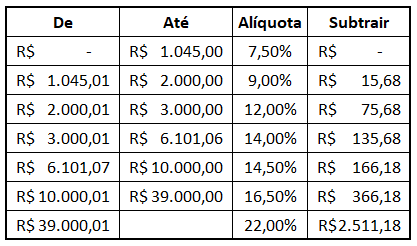
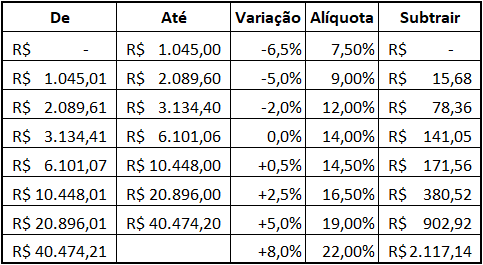
Atualiza faixas do PSS pela portaria 2.963/2020

diff --git a/js/compressed.js b/js/compressed.js
@@ -1,1 +1,1 @@
-var liq1=0,liq2=0;function updateQuali(e,a){var d=Array("Mínima do Cargo","Fundamental Completo","Médio Completo","Médio Técnico","Graduação Completa","Especialização","Mestrado","Doutorado"),l=Array(0,1,2,3,4,5,6,7),u=Array(),r=Array(),t=e.ddQuali.value,n=parseFloat(a);for(n<=11?(u=d,r=l):17==n?(u=d.slice(2,d.length),r=l.slice(2,d.length),u.splice(0,1,"Exigência Mínima"),r.splice(0,1,0)):31==n&&(u=d.slice(4,d.length),r=l.slice(4,d.length),u.splice(0,1,"Exigência Mínima"),r.splice(0,1,0));e.ddQuali.options.length;)e.ddQuali.options[0]=null;for(i=0;i<u.length;i++)option=new Option(u[i],r[i]),e.ddQuali.options[e.ddQuali.length]=option;r.includes(parseInt(t))&&(e.ddQuali.value=t),calcSalario(e)}function calcfatorpg(e,a){Array();return(a?Array(0,.1,.15,.2,.25,.3,.52,.75):Array(0,0,0,.1,.15,.2,.35,.5))[e]}function firstload(){updateQuali(myform,1),updateQuali(myform2,1)}function validateGD1(e,a){var d=e||window.event,l=d.keyCode||d.which;l=String.fromCharCode(l);/[0-9]|\./.test(l)||(d.returnValue=!1,d.preventDefault&&d.preventDefault())}function validateGD2(e){var a=e.gastoTrans.value;a=99<a?a.toString().substring(0,a.length-1):parseInt(a,10),e.gastoTrans.value=a,calcSalario(e)}function formatValor(e){var a=/^\d+$/;return 0===e?"R$ 0,00":a.test(e)?"R$ "+e+",00":a.test(10*e)?"R$ "+e.toString().replace(".",",")+"0":"R$ "+e.toString().replace(".",",")}function valorIRRF(e,a){var d=0;return d=1==a?e<1710.79?0:e<2563.92?.075*e-128.31:e<3418.6?.15*e-320.6:e<4271.59?.225*e-577:.275*e-790.58:a<=4?e<=1787.77?0:e<=2679.29?.075*e-134:e<=3572.43?.15*e-335:e<=4463.81?.225*e-602.96:.275*e-826.15:e<=1903.98?0:e<=2826.65?.075*e-142.8:e<=3751.05?.15*e-354.8:e<=4664.68?.225*e-636.13:.275*e-869.36,Math.floor(100*d)/100}function calcPSS(e,a,d){var l=0;return l=e<12?.11*a:a<=1045?.075*a:a<=2e3?.09*a-15.68:a<=3e3?.12*a-75.68:a<=d?.14*a-135.68:a<=1e4?.145*a-166.18:a<=39e3?.165*a-366.18:.22*a-2511.18,Math.floor(100*l)/100}function dependentesIR(e,a){var d=0;return d=1==a?171.97*e:a<=4?179.71*e:189.59*e,Math.floor(100*d)/100}function valorSaude(e,a,d){var l=Array();l[0]=Array(121.94,127.69,129.42,134.6,138.62,143.22,154.98,157.44,159.9,167.7),l[1]=Array(116.19,121.94,123.67,127.69,131.72,136.32,147.42,149.76,152.1,159.9),l[2]=Array(110.44,116.19,117.92,121.94,125.97,130.57,139.86,142.08,144.3,152.1),l[3]=Array(105.84,110.44,112.16,116.19,120.22,124.82,133.56,135.68,137.8,144.3),l[4]=Array(100.08,105.84,107.56,110.44,114.46,119.07,127.26,129.28,131.3,137.8),l[5]=Array(90.88,93.18,94.91,95.48,99.51,104.11,105.84,107.52,109.2,111.8),l[6]=Array(87.43,88.58,90.31,90.88,94.91,99.51,100.8,102.4,104,106.6),l[7]=Array(82.83,83.98,85.7,86.28,90.31,94.91,95.76,97.28,98.8,101.4);var u=0;u=e<1500?0:e<2e3?1:e<2500?2:e<3e3?3:e<4e3?4:e<5500?5:e<7500?6:7;var r=1;return 6<=d&&(r=1.22618),1e3==a?0:Math.round(l[u][a]*r*100)/100}function valorCreche(e,a,d){var l=95;6<=a&&(l=321);return l*(1-(e<6200.8?.05:e<12401.6?.1:e<18602.4?.15:e<24803.2?.2:.25))*d}function valorTransporte(e,a){var d;return gastodiario=isNaN(a)||a<0?0:.2*Math.ceil((a-1)/.2)+1,(d=22*gastodiario-.06*e*(22/30))<0?0:d}function valorFG(e,a){var d=Array(0,777.26,522.9,423.94,215.78,175.09,128.4,81.89,60.57,49.15),l=Array(0,790.75,531.99,431.3,219.54,187.14,130.63,83.31,61.61,50),u=Array(0,804.49,541.23,438.79,223.35,181.23,132.89,84.75,62.69,50.86),r=Array(0,848.74,571,462.92,235.63,191.2,140.2,89.41,66.14,53.66),t=Array(0,891.17,599.55,486.07,247.42,200.76,147.21,93.88,69.44,56.34),n=Array(0,933.5,628.03,509.16,259.17,210.29,154.2,98.34,72.74,59.02),o=Array(0,975.51,656.29,532.07,270.83,219.76,161.14,101.77,76.02,61.67),v=0;return 1==a?v=d[e]:a<=2?v=l[e]:a<=6?v=u[e]:7==a?v=r[e]:8==a?v=t[e]:9==a?v=n[e]:10<=a&&(v=o[e]),v}function valorCD(e,a){var d=Array(0,9575.95,8004.9,9284.22,4563.53),l=Array(0,10315.37,8623.02,6769.47,4915.92),u=Array(0,11111.9,9288.86,7292.19,5295.51),r=Array(0,11723.05,9799.75,7693.26,5586.77),t=Array(0,12309.21,10289.74,8077.92,5866.1),n=Array(0,12893.89,10778.5,8461.62,6144.74),o=Array(0,13474.12,11263.53,8842.29,6421.26);return 1==a?d[e]:a<=3?l[e]:a<=6?u[e]:7==a?r[e]:8==a?t[e]:9==a?n[e]:o[e]}function nocd(e){0!=e.ddFG.value&&(e.ddCD.value=0)}function nofg(e){0!=e.ddCD.value&&(e.ddFG.value=0)}function calcSalario(e){var a=parseInt(e.ddAno.value,10);base=1==a?(ftstep=1.036,1086.32):2==a?(ftstep=1.037,1086.32):3==a?(ftstep=1.037,1140.64):4==a?(ftstep=1.038,1140.64):5==a||6==a?(ftstep=1.038,1197.67):7==a?(ftstep=1.038,1263.54):(ftstep=1.039,1326.72),e.medico.checked&&(base*=2);var d=parseFloat(e.ddClasse.value)+parseFloat(e.ddNivel.value)+parseFloat(e.ddProg.value)-3,l=e.ddCargaH.value,u=Math.floor(base*Math.pow(ftstep,d)*l*100)/100,r=e.numAnuenio.value/100*u,t=0;t=a<6?e.alim.checked?373:0:e.alim.checked?458:0,.5==l&&(t/=2);var n=e.trans.checked?valorTransporte(u,e.gastoTrans.value):0,o=e.ddInsa.value,v=calcfatorpg(e.ddQuali.value,e.areaquali[0].checked),c=0;1==e.ddURP.value?c=.2605*(Math.floor(1197.67*Math.pow(1.038,d)*l*100)/100)*(1+v):2==e.ddURP.value&&(c=.2605*u*(1+v));var i=v*u,s=u+c+i+Math.floor(o*u*100)/100+r;if("max"==e.ddSindTipo.value)var p=e.sindicato.checked?.01*s:0;else p=Math.floor(.01*base*Math.pow(ftstep,parseFloat(e.ddClasse.value)-1)*l*100)/100;var m=s/(240*l)*(e.noturno.value*(60/52.5))*.25,h=valorFG(parseInt(e.ddFG.value,10),a);if(e.rdCD[0].checked&&"0"!=e.ddCD.value)var f=.6*valorCD(e.ddCD.value,a);else if(e.rdCD[1].checked&&"0"!=e.ddCD.value)f=valorCD(e.ddCD.value,a)-u;else f=0;var k=s+h+f,I=e.saude.checked?valorSaude(k,parseInt(e.ddIdade.value,10),a)+valorSaude(k,parseInt(e.ddIdadeDep1.value,10),a)+valorSaude(k,parseInt(e.ddIdadeDep2.value,10),a)+valorSaude(k,parseInt(e.ddIdadeDep3.value,10),a):0,D=valorCreche(u+c+Math.floor(o*u*100)/100+r,a,e.numCreche.value);if(e.ferias.checked)var C=valorIRRF(A=(s+h+f)/3,a);else{var A=0;C=0}var g=e.decter.checked?(s+h+f)/2:0,y=s+I+t+n+D+h+f+m+A+g,F=s,M=4663.75;M=6<=a&&a<8?5189.82:a<9?5531.31:9==a?5645.81:10==a?5839.45:6101.06,e.pssfgcd.checked&&(F+=h+f),"rpc"==e.novopss.value&&M<F&&(F=M);var R=calcPSS(a,F,M),V=0;"sim"==e.funp_ad.value&&(F==M?(V=(u+c+i-M)*e.ddFunp.value,"myform"==e.name?(document.getElementById("funp_plano_norm1").checked=!0,document.getElementById("ddFunp1").disabled=!1,document.getElementById("numFunpAlt1").disabled=!0):(document.getElementById("funp_plano_norm2").checked=!0,document.getElementById("ddFunp2").disabled=!1,document.getElementById("numFunpAlt2").disabled=!0)):(V=e.numFunpAlt.value,"myform"==e.name?(document.getElementById("funp_plano_alt1").checked=!0,document.getElementById("ddFunp1").disabled=!0,document.getElementById("numFunpAlt1").disabled=!1):(document.getElementById("funp_plano_alt2").checked=!0,document.getElementById("ddFunp2").disabled=!0,document.getElementById("numFunpAlt2").disabled=!1)));var S=dependentesIR(e.numDepIRRF.value,a),x=u+c+i+o*u+h+f-R-V-S,q=valorIRRF(x,a),_=e.decter.checked&&"2"==e.decter_par.value?q+R+V:0,T=Math.round(100*(y-q-R-V-_-p-C))/100-e.numOutros.value;"myform"==e.name?liq1=T:liq2=T,document.getElementById("diffLiqAbs").value=formatValor(Math.abs(Math.round(100*(liq1-liq2))/100)),document.getElementById("diffLiqPor").value=Math.round(100*liq2/liq1)+"%",e.txVB.value=formatValor(u),e.txResult.value=formatValor(T),e.txInsa.value=formatValor(Math.floor(o*u*100)/100),e.txInss.value=formatValor(Math.round(100*R)/100),e.txBruto.value=formatValor(Math.round(100*y)/100),e.txIrrf.value=formatValor(Math.round(100*q)/100),e.txSaude.value=formatValor(I),e.txTrans.value=formatValor(Math.round(100*n)/100),e.txAlim.value=formatValor(t),e.txCreche.value=formatValor(Math.round(100*D)/100),e.txURP.value=formatValor(Math.round(100*c)/100),e.txbIRRF.value=formatValor(Math.round(100*x)/100),e.txbINSS.value=formatValor(Math.round(100*F)/100),e.txdesconto.value=formatValor(Math.round(100*(y-T))/100),e.txSindicato.value=formatValor(Math.round(100*p)/100),e.txQualif.value=formatValor(Math.round(100*i)/100),e.txFunp.value=formatValor(Math.round(100*V)/100),e.txDepIRRF.value=formatValor(S),e.txFG.value=formatValor(h),e.txCD.value=e.rdCD[0].checked?formatValor(Math.round(100*f)/100):formatValor(valorCD(e.ddCD.value,a)),e.txNoturno.value=formatValor(Math.round(100*m)/100),e.txFerias.value=formatValor(Math.round(100*A)/100),e.txIrrfFerias.value=formatValor(Math.round(100*C)/100),e.txDecter.value=formatValor(Math.round(100*g)/100),e.txDesc13.value=formatValor(Math.round(100*_)/100)}function inverterform(e){var a=document.forms.myform,d=document.forms.myform2;if("inverter"==e)var l=Array(a.ddClasse.value,a.ddProg.value,a.ddFG.value,a.ddNivel.value,a.ddCargaH.value,a.ddAno.value,a.ddQuali.value,a.saude.checked,a.ddIdade.value,a.ddURP.value,a.trans.checked,a.gastoTrans.value,a.alim.checked,a.ddInsa.value,a.numCreche.value,a.sindicato.checked,a.areaquali[0].checked,a.areaquali[1].checked,a.novopss.value,a.ddFunp.value,a.numAnuenio.value,a.funp_ad.value,a.numFunpAlt.value,a.numDepIRRF.value,a.ddIdadeDep1.value,a.ddIdadeDep2.value,a.ddIdadeDep3.value,a.ddCD.value,a.rdCD[0].checked,a.rdCD[1].checked,a.ferias.checked,a.decter.checked,a.decter_par.value,a.ddSindTipo.value,a.numOutros.value),u=Array(d.ddClasse.value,d.ddProg.value,d.ddFG.value,d.ddNivel.value,d.ddCargaH.value,d.ddAno.value,d.ddQuali.value,d.saude.checked,d.ddIdade.value,d.ddURP.value,d.trans.checked,d.gastoTrans.value,d.alim.checked,d.ddInsa.value,d.numCreche.value,d.sindicato.checked,d.areaquali[0].checked,d.areaquali[1].checked,d.novopss.value,d.ddFunp.value,d.numAnuenio.value,d.funp_ad.value,d.numFunpAlt.value,d.numDepIRRF.value,d.ddIdadeDep1.value,d.ddIdadeDep2.value,d.ddIdadeDep3.value,d.ddCD.value,d.rdCD[0].checked,d.rdCD[1].checked,d.ferias.checked,d.decter.checked,d.decter_par.value,d.ddSindTipo.value,d.numOutros.value);else if("cima"==e)l=u=Array(d.ddClasse.value,d.ddProg.value,d.ddFG.value,d.ddNivel.value,d.ddCargaH.value,d.ddAno.value,d.ddQuali.value,d.saude.checked,d.ddIdade.value,d.ddURP.value,d.trans.checked,d.gastoTrans.value,d.alim.checked,d.ddInsa.value,d.numCreche.value,d.sindicato.checked,d.areaquali[0].checked,d.areaquali[1].checked,d.novopss.value,d.ddFunp.value,d.numAnuenio.value,d.funp_ad.value,d.numFunpAlt.value,d.numDepIRRF.value,d.ddIdadeDep1.value,d.ddIdadeDep2.value,d.ddIdadeDep3.value,d.ddCD.value,d.rdCD[0].checked,d.rdCD[1].checked,d.ferias.checked,d.decter.checked,d.decter_par.value,d.ddSindTipo.value,d.numOutros.value);else u=l=Array(a.ddClasse.value,a.ddProg.value,a.ddFG.value,a.ddNivel.value,a.ddCargaH.value,a.ddAno.value,a.ddQuali.value,a.saude.checked,a.ddIdade.value,a.ddURP.value,a.trans.checked,a.gastoTrans.value,a.alim.checked,a.ddInsa.value,a.numCreche.value,a.sindicato.checked,a.areaquali[0].checked,a.areaquali[1].checked,a.novopss.value,a.ddFunp.value,a.numAnuenio.value,a.funp_ad.value,a.numFunpAlt.value,a.numDepIRRF.value,a.ddIdadeDep1.value,a.ddIdadeDep2.value,a.ddIdadeDep3.value,a.ddCD.value,a.rdCD[0].checked,a.rdCD[1].checked,a.ferias.checked,a.decter.checked,a.decter_par.value,a.ddSindTipo.value,a.numOutros.value);a.ddClasse.value=u[0],a.ddProg.value=u[1],a.ddFG.value=u[2],a.ddNivel.value=u[3],a.ddCargaH.value=u[4],a.ddAno.value=u[5],a.saude.checked=u[7],a.ddIdade.value=u[8],a.ddURP.value=u[9],a.trans.checked=u[10],a.gastoTrans.value=u[11],a.alim.checked=u[12],a.ddInsa.value=u[13],a.numCreche.value=u[14],a.sindicato.checked=u[15],a.areaquali[0].checked=u[16],a.areaquali[1].checked=u[17],a.novopss.value=u[18],a.ddFunp.value=u[19],a.numAnuenio.value=u[20],a.funp_ad.value=u[21],a.numFunpAlt.value=u[22],a.numDepIRRF.value=u[23],a.ddIdadeDep1.value=u[24],a.ddIdadeDep2.value=u[25],a.ddIdadeDep3.value=u[26],a.ddCD.value=u[27],a.rdCD[0].checked=u[28],a.rdCD[1].checked=u[29],a.ferias.checked=u[30],a.decter.checked=u[31],a.decter_par.value=u[32],a.ddSindTipo.value=u[33],a.numOutros.value=u[35],d.ddClasse.value=l[0],d.ddProg.value=l[1],d.ddFG.value=l[2],d.ddNivel.value=l[3],d.ddCargaH.value=l[4],d.ddAno.value=l[5],d.saude.checked=l[7],d.ddIdade.value=l[8],d.ddURP.value=l[9],d.trans.checked=l[10],d.gastoTrans.value=l[11],d.alim.checked=l[12],d.ddInsa.value=l[13],d.numCreche.value=l[14],d.sindicato.checked=l[15],d.areaquali[0].checked=l[16],d.areaquali[1].checked=l[17],d.novopss.value=l[18],d.ddFunp.value=l[19],d.numAnuenio.value=l[20],d.funp_ad.value=l[21],d.numFunpAlt.value=l[22],d.numDepIRRF.value=l[23],d.ddIdadeDep1.value=l[24],d.ddIdadeDep2.value=l[25],d.ddIdadeDep3.value=l[26],d.ddCD.value=l[27],d.rdCD[0].checked=l[28],d.rdCD[1].checked=l[29],d.ferias.checked=l[30],d.decter.checked=l[31],d.decter_par.value=l[32],d.ddSindTipo.value=l[33],d.numOutros.value=l[35],updateQuali(a,u[0]),updateQuali(d,l[0]),a.ddQuali.value=u[6],d.ddQuali.value=l[6],calcSalario(a),calcSalario(d)}
+var liq1=0,liq2=0;function updateQuali(e,a){var d=Array("Mínima do Cargo","Fundamental Completo","Médio Completo","Médio Técnico","Graduação Completa","Especialização","Mestrado","Doutorado"),l=Array(0,1,2,3,4,5,6,7),u=Array(),r=Array(),t=e.ddQuali.value,n=parseFloat(a);for(n<=11?(u=d,r=l):17==n?(u=d.slice(2,d.length),r=l.slice(2,d.length),u.splice(0,1,"Exigência Mínima"),r.splice(0,1,0)):31==n&&(u=d.slice(4,d.length),r=l.slice(4,d.length),u.splice(0,1,"Exigência Mínima"),r.splice(0,1,0));e.ddQuali.options.length;)e.ddQuali.options[0]=null;for(i=0;i<u.length;i++)option=new Option(u[i],r[i]),e.ddQuali.options[e.ddQuali.length]=option;r.includes(parseInt(t))&&(e.ddQuali.value=t),calcSalario(e)}function calcfatorpg(e,a){Array();return(a?Array(0,.1,.15,.2,.25,.3,.52,.75):Array(0,0,0,.1,.15,.2,.35,.5))[e]}function firstload(){updateQuali(myform,1),updateQuali(myform2,1)}function validateGD1(e,a){var d=e||window.event,l=d.keyCode||d.which;l=String.fromCharCode(l);/[0-9]|\./.test(l)||(d.returnValue=!1,d.preventDefault&&d.preventDefault())}function validateGD2(e){var a=e.gastoTrans.value;a=99<a?a.toString().substring(0,a.length-1):parseInt(a,10),e.gastoTrans.value=a,calcSalario(e)}function formatValor(e){var a=/^\d+$/;return 0===e?"R$ 0,00":a.test(e)?"R$ "+e+",00":a.test(10*e)?"R$ "+e.toString().replace(".",",")+"0":"R$ "+e.toString().replace(".",",")}function valorIRRF(e,a){var d=0;return d=1==a?e<1710.79?0:e<2563.92?.075*e-128.31:e<3418.6?.15*e-320.6:e<4271.59?.225*e-577:.275*e-790.58:a<=4?e<=1787.77?0:e<=2679.29?.075*e-134:e<=3572.43?.15*e-335:e<=4463.81?.225*e-602.96:.275*e-826.15:e<=1903.98?0:e<=2826.65?.075*e-142.8:e<=3751.05?.15*e-354.8:e<=4664.68?.225*e-636.13:.275*e-869.36,Math.floor(100*d)/100}function calcPSS(e,a,d){var l=0;return l=e<12?.11*a:a<=1045?.075*a:a<=2089.6?.09*a-15.68:a<=3134.4?.12*a-78.36:a<=d?.14*a-141.05:a<=10448?.145*a-171.56:a<=20896.2?.165*a-380.52:a<=40474.2?.19*a-902.92:.22*a-2117.14,Math.floor(100*l)/100}function dependentesIR(e,a){var d=0;return d=1==a?171.97*e:a<=4?179.71*e:189.59*e,Math.floor(100*d)/100}function valorSaude(e,a,d){var l=Array();l[0]=Array(121.94,127.69,129.42,134.6,138.62,143.22,154.98,157.44,159.9,167.7),l[1]=Array(116.19,121.94,123.67,127.69,131.72,136.32,147.42,149.76,152.1,159.9),l[2]=Array(110.44,116.19,117.92,121.94,125.97,130.57,139.86,142.08,144.3,152.1),l[3]=Array(105.84,110.44,112.16,116.19,120.22,124.82,133.56,135.68,137.8,144.3),l[4]=Array(100.08,105.84,107.56,110.44,114.46,119.07,127.26,129.28,131.3,137.8),l[5]=Array(90.88,93.18,94.91,95.48,99.51,104.11,105.84,107.52,109.2,111.8),l[6]=Array(87.43,88.58,90.31,90.88,94.91,99.51,100.8,102.4,104,106.6),l[7]=Array(82.83,83.98,85.7,86.28,90.31,94.91,95.76,97.28,98.8,101.4);var u=0;u=e<1500?0:e<2e3?1:e<2500?2:e<3e3?3:e<4e3?4:e<5500?5:e<7500?6:7;var r=1;return 6<=d&&(r=1.22618),1e3==a?0:Math.round(l[u][a]*r*100)/100}function valorCreche(e,a,d){var l=95;6<=a&&(l=321);return l*(1-(e<6200.8?.05:e<12401.6?.1:e<18602.4?.15:e<24803.2?.2:.25))*d}function valorTransporte(e,a){var d;return gastodiario=isNaN(a)||a<0?0:.2*Math.ceil((a-1)/.2)+1,(d=22*gastodiario-.06*e*(22/30))<0?0:d}function valorFG(e,a){var d=Array(0,777.26,522.9,423.94,215.78,175.09,128.4,81.89,60.57,49.15),l=Array(0,790.75,531.99,431.3,219.54,187.14,130.63,83.31,61.61,50),u=Array(0,804.49,541.23,438.79,223.35,181.23,132.89,84.75,62.69,50.86),r=Array(0,848.74,571,462.92,235.63,191.2,140.2,89.41,66.14,53.66),t=Array(0,891.17,599.55,486.07,247.42,200.76,147.21,93.88,69.44,56.34),n=Array(0,933.5,628.03,509.16,259.17,210.29,154.2,98.34,72.74,59.02),o=Array(0,975.51,656.29,532.07,270.83,219.76,161.14,101.77,76.02,61.67),v=0;return 1==a?v=d[e]:a<=2?v=l[e]:a<=6?v=u[e]:7==a?v=r[e]:8==a?v=t[e]:9==a?v=n[e]:10<=a&&(v=o[e]),v}function valorCD(e,a){var d=Array(0,9575.95,8004.9,9284.22,4563.53),l=Array(0,10315.37,8623.02,6769.47,4915.92),u=Array(0,11111.9,9288.86,7292.19,5295.51),r=Array(0,11723.05,9799.75,7693.26,5586.77),t=Array(0,12309.21,10289.74,8077.92,5866.1),n=Array(0,12893.89,10778.5,8461.62,6144.74),o=Array(0,13474.12,11263.53,8842.29,6421.26);return 1==a?d[e]:a<=3?l[e]:a<=6?u[e]:7==a?r[e]:8==a?t[e]:9==a?n[e]:o[e]}function nocd(e){0!=e.ddFG.value&&(e.ddCD.value=0)}function nofg(e){0!=e.ddCD.value&&(e.ddFG.value=0)}function calcSalario(e){var a=parseInt(e.ddAno.value,10);base=1==a?(ftstep=1.036,1086.32):2==a?(ftstep=1.037,1086.32):3==a?(ftstep=1.037,1140.64):4==a?(ftstep=1.038,1140.64):5==a||6==a?(ftstep=1.038,1197.67):7==a?(ftstep=1.038,1263.54):(ftstep=1.039,1326.72),e.medico.checked&&(base*=2);var d=parseFloat(e.ddClasse.value)+parseFloat(e.ddNivel.value)+parseFloat(e.ddProg.value)-3,l=e.ddCargaH.value,u=Math.floor(base*Math.pow(ftstep,d)*l*100)/100,r=e.numAnuenio.value/100*u,t=0;t=a<6?e.alim.checked?373:0:e.alim.checked?458:0,.5==l&&(t/=2);var n=e.trans.checked?valorTransporte(u,e.gastoTrans.value):0,o=e.ddInsa.value,v=calcfatorpg(e.ddQuali.value,e.areaquali[0].checked),c=0;1==e.ddURP.value?c=.2605*(Math.floor(1197.67*Math.pow(1.038,d)*l*100)/100)*(1+v):2==e.ddURP.value&&(c=.2605*u*(1+v));var i=v*u,s=u+c+i+Math.floor(o*u*100)/100+r;if("max"==e.ddSindTipo.value)var p=e.sindicato.checked?.01*s:0;else p=Math.floor(.01*base*Math.pow(ftstep,parseFloat(e.ddClasse.value)-1)*l*100)/100;var m=s/(240*l)*(e.noturno.value*(60/52.5))*.25,h=valorFG(parseInt(e.ddFG.value,10),a);if(e.rdCD[0].checked&&"0"!=e.ddCD.value)var f=.6*valorCD(e.ddCD.value,a);else if(e.rdCD[1].checked&&"0"!=e.ddCD.value)f=valorCD(e.ddCD.value,a)-u;else f=0;var k=s+h+f,I=e.saude.checked?valorSaude(k,parseInt(e.ddIdade.value,10),a)+valorSaude(k,parseInt(e.ddIdadeDep1.value,10),a)+valorSaude(k,parseInt(e.ddIdadeDep2.value,10),a)+valorSaude(k,parseInt(e.ddIdadeDep3.value,10),a):0,D=valorCreche(u+c+Math.floor(o*u*100)/100+r,a,e.numCreche.value);if(e.ferias.checked)var C=valorIRRF(A=(s+h+f)/3,a);else{var A=0;C=0}var g=e.decter.checked?(s+h+f)/2:0,y=s+I+t+n+D+h+f+m+A+g,F=s,M=4663.75;M=6<=a&&a<8?5189.82:a<9?5531.31:9==a?5645.81:10==a?5839.45:6101.06,e.pssfgcd.checked&&(F+=h+f),"rpc"==e.novopss.value&&M<F&&(F=M);var R=calcPSS(a,F,M),V=0;"sim"==e.funp_ad.value&&(F==M?(V=(u+c+i-M)*e.ddFunp.value,"myform"==e.name?(document.getElementById("funp_plano_norm1").checked=!0,document.getElementById("ddFunp1").disabled=!1,document.getElementById("numFunpAlt1").disabled=!0):(document.getElementById("funp_plano_norm2").checked=!0,document.getElementById("ddFunp2").disabled=!1,document.getElementById("numFunpAlt2").disabled=!0)):(V=e.numFunpAlt.value,"myform"==e.name?(document.getElementById("funp_plano_alt1").checked=!0,document.getElementById("ddFunp1").disabled=!0,document.getElementById("numFunpAlt1").disabled=!1):(document.getElementById("funp_plano_alt2").checked=!0,document.getElementById("ddFunp2").disabled=!0,document.getElementById("numFunpAlt2").disabled=!1)));var S=dependentesIR(e.numDepIRRF.value,a),x=u+c+i+o*u+h+f-R-V-S,q=valorIRRF(x,a),_=e.decter.checked&&"2"==e.decter_par.value?q+R+V:0,T=Math.round(100*(y-q-R-V-_-p-C))/100-e.numOutros.value;"myform"==e.name?liq1=T:liq2=T,document.getElementById("diffLiqAbs").value=formatValor(Math.abs(Math.round(100*(liq1-liq2))/100)),document.getElementById("diffLiqPor").value=Math.round(100*liq2/liq1)+"%",e.txVB.value=formatValor(u),e.txResult.value=formatValor(T),e.txInsa.value=formatValor(Math.floor(o*u*100)/100),e.txInss.value=formatValor(Math.round(100*R)/100),e.txBruto.value=formatValor(Math.round(100*y)/100),e.txIrrf.value=formatValor(Math.round(100*q)/100),e.txSaude.value=formatValor(I),e.txTrans.value=formatValor(Math.round(100*n)/100),e.txAlim.value=formatValor(t),e.txCreche.value=formatValor(Math.round(100*D)/100),e.txURP.value=formatValor(Math.round(100*c)/100),e.txbIRRF.value=formatValor(Math.round(100*x)/100),e.txbINSS.value=formatValor(Math.round(100*F)/100),e.txdesconto.value=formatValor(Math.round(100*(y-T))/100),e.txSindicato.value=formatValor(Math.round(100*p)/100),e.txQualif.value=formatValor(Math.round(100*i)/100),e.txFunp.value=formatValor(Math.round(100*V)/100),e.txDepIRRF.value=formatValor(S),e.txFG.value=formatValor(h),e.txCD.value=e.rdCD[0].checked?formatValor(Math.round(100*f)/100):formatValor(valorCD(e.ddCD.value,a)),e.txNoturno.value=formatValor(Math.round(100*m)/100),e.txFerias.value=formatValor(Math.round(100*A)/100),e.txIrrfFerias.value=formatValor(Math.round(100*C)/100),e.txDecter.value=formatValor(Math.round(100*g)/100),e.txDesc13.value=formatValor(Math.round(100*_)/100)}function inverterform(e){var a=document.forms.myform,d=document.forms.myform2;if("inverter"==e)var l=Array(a.ddClasse.value,a.ddProg.value,a.ddFG.value,a.ddNivel.value,a.ddCargaH.value,a.ddAno.value,a.ddQuali.value,a.saude.checked,a.ddIdade.value,a.ddURP.value,a.trans.checked,a.gastoTrans.value,a.alim.checked,a.ddInsa.value,a.numCreche.value,a.sindicato.checked,a.areaquali[0].checked,a.areaquali[1].checked,a.novopss.value,a.ddFunp.value,a.numAnuenio.value,a.funp_ad.value,a.numFunpAlt.value,a.numDepIRRF.value,a.ddIdadeDep1.value,a.ddIdadeDep2.value,a.ddIdadeDep3.value,a.ddCD.value,a.rdCD[0].checked,a.rdCD[1].checked,a.ferias.checked,a.decter.checked,a.decter_par.value,a.ddSindTipo.value,a.numOutros.value),u=Array(d.ddClasse.value,d.ddProg.value,d.ddFG.value,d.ddNivel.value,d.ddCargaH.value,d.ddAno.value,d.ddQuali.value,d.saude.checked,d.ddIdade.value,d.ddURP.value,d.trans.checked,d.gastoTrans.value,d.alim.checked,d.ddInsa.value,d.numCreche.value,d.sindicato.checked,d.areaquali[0].checked,d.areaquali[1].checked,d.novopss.value,d.ddFunp.value,d.numAnuenio.value,d.funp_ad.value,d.numFunpAlt.value,d.numDepIRRF.value,d.ddIdadeDep1.value,d.ddIdadeDep2.value,d.ddIdadeDep3.value,d.ddCD.value,d.rdCD[0].checked,d.rdCD[1].checked,d.ferias.checked,d.decter.checked,d.decter_par.value,d.ddSindTipo.value,d.numOutros.value);else if("cima"==e)l=u=Array(d.ddClasse.value,d.ddProg.value,d.ddFG.value,d.ddNivel.value,d.ddCargaH.value,d.ddAno.value,d.ddQuali.value,d.saude.checked,d.ddIdade.value,d.ddURP.value,d.trans.checked,d.gastoTrans.value,d.alim.checked,d.ddInsa.value,d.numCreche.value,d.sindicato.checked,d.areaquali[0].checked,d.areaquali[1].checked,d.novopss.value,d.ddFunp.value,d.numAnuenio.value,d.funp_ad.value,d.numFunpAlt.value,d.numDepIRRF.value,d.ddIdadeDep1.value,d.ddIdadeDep2.value,d.ddIdadeDep3.value,d.ddCD.value,d.rdCD[0].checked,d.rdCD[1].checked,d.ferias.checked,d.decter.checked,d.decter_par.value,d.ddSindTipo.value,d.numOutros.value);else u=l=Array(a.ddClasse.value,a.ddProg.value,a.ddFG.value,a.ddNivel.value,a.ddCargaH.value,a.ddAno.value,a.ddQuali.value,a.saude.checked,a.ddIdade.value,a.ddURP.value,a.trans.checked,a.gastoTrans.value,a.alim.checked,a.ddInsa.value,a.numCreche.value,a.sindicato.checked,a.areaquali[0].checked,a.areaquali[1].checked,a.novopss.value,a.ddFunp.value,a.numAnuenio.value,a.funp_ad.value,a.numFunpAlt.value,a.numDepIRRF.value,a.ddIdadeDep1.value,a.ddIdadeDep2.value,a.ddIdadeDep3.value,a.ddCD.value,a.rdCD[0].checked,a.rdCD[1].checked,a.ferias.checked,a.decter.checked,a.decter_par.value,a.ddSindTipo.value,a.numOutros.value);a.ddClasse.value=u[0],a.ddProg.value=u[1],a.ddFG.value=u[2],a.ddNivel.value=u[3],a.ddCargaH.value=u[4],a.ddAno.value=u[5],a.saude.checked=u[7],a.ddIdade.value=u[8],a.ddURP.value=u[9],a.trans.checked=u[10],a.gastoTrans.value=u[11],a.alim.checked=u[12],a.ddInsa.value=u[13],a.numCreche.value=u[14],a.sindicato.checked=u[15],a.areaquali[0].checked=u[16],a.areaquali[1].checked=u[17],a.novopss.value=u[18],a.ddFunp.value=u[19],a.numAnuenio.value=u[20],a.funp_ad.value=u[21],a.numFunpAlt.value=u[22],a.numDepIRRF.value=u[23],a.ddIdadeDep1.value=u[24],a.ddIdadeDep2.value=u[25],a.ddIdadeDep3.value=u[26],a.ddCD.value=u[27],a.rdCD[0].checked=u[28],a.rdCD[1].checked=u[29],a.ferias.checked=u[30],a.decter.checked=u[31],a.decter_par.value=u[32],a.ddSindTipo.value=u[33],a.numOutros.value=u[35],d.ddClasse.value=l[0],d.ddProg.value=l[1],d.ddFG.value=l[2],d.ddNivel.value=l[3],d.ddCargaH.value=l[4],d.ddAno.value=l[5],d.saude.checked=l[7],d.ddIdade.value=l[8],d.ddURP.value=l[9],d.trans.checked=l[10],d.gastoTrans.value=l[11],d.alim.checked=l[12],d.ddInsa.value=l[13],d.numCreche.value=l[14],d.sindicato.checked=l[15],d.areaquali[0].checked=l[16],d.areaquali[1].checked=l[17],d.novopss.value=l[18],d.ddFunp.value=l[19],d.numAnuenio.value=l[20],d.funp_ad.value=l[21],d.numFunpAlt.value=l[22],d.numDepIRRF.value=l[23],d.ddIdadeDep1.value=l[24],d.ddIdadeDep2.value=l[25],d.ddIdadeDep3.value=l[26],d.ddCD.value=l[27],d.rdCD[0].checked=l[28],d.rdCD[1].checked=l[29],d.ferias.checked=l[30],d.decter.checked=l[31],d.decter_par.value=l[32],d.ddSindTipo.value=l[33],d.numOutros.value=l[35],updateQuali(a,u[0]),updateQuali(d,l[0]),a.ddQuali.value=u[6],d.ddQuali.value=l[6],calcSalario(a),calcSalario(d)}

diff --git a/carreira.html b/carreira.html
@@ -153,7 +153,7 @@
         
         <p class="pcarreira">Este cálculo também é baseado em um valor-base que é diferente do calculado para IRRF, mas também vem descriminado no contracheque. Até 2020, a contribuição ao Plano de Seguridade Social era bem simples, sendo calculada sobre 11% da base de contribuição. Para aqueles que ingressaram a partir de Fevereiro de 2013, a base é o valor teto do PSS, fixado atualmente em R$ 6.101,06. Os servidores que entraram antes desta data, porém decidiram migrar para o Regime Complementar (<a href="https://www.funpresp.com.br/portal/">Funpresp</a>), também contribuem sobre este teto. O PSS é regido pela <a href ="http://www.planalto.gov.br/ccivil_03/_ato2004-2006/2004/lei/l10.887.htm">lei 10.887/2004</a>, e foi modificado (principalmente quanto à criação do Fundo de Previdência Complementar - Funpresp -  pela <a href="http://www.planalto.gov.br/ccivil_03/_Ato2011-2014/2012/Lei/L12618.htm">lei 12.618/2012</a>).</p>  
 		
-		<p class="pcarreira">Com a entrada em vigor da <a href="http://www.planalto.gov.br/ccivil_03/constituicao/emendas/emc/emc103.htm">EC 103 (Reforma da Previdência)</a>, o cálculo da contribuição previdenciária para os servidores federais mudou. Desde Março de 2020, o cálculo é realizado como no IR, ou seja, com uma alíquota progressiva de acordo com o salário do servidor. Para cada faixa do salário (Salário Mínimo, R$ 2.000, R$ 3.000, teto da previdência, R$ 10.000 e R$ 39.000), há uma alíquota. O cálculo também pode ser realizado considerando a alíquota da base e um desconto que torna o valor linear entre todas faixas.</p>
+		<p class="pcarreira">Com a entrada em vigor da <a href="http://www.planalto.gov.br/ccivil_03/constituicao/emendas/emc/emc103.htm">EC 103 (Reforma da Previdência)</a>, o cálculo da contribuição previdenciária para os servidores federais mudou. Desde Março de 2020, o cálculo é realizado como no IR, ou seja, com uma alíquota progressiva de acordo com o salário do servidor. Há uma alíquota para cada faixa do salário, que pode ser menor, igual ou maior à alíquota base de 14%. O cálculo também pode ser realizado considerando a alíquota da faixa e um desconto que torna o valor linear entre todas faixas. Os valores das faixas foram atualizados pela <a href="http://www.in.gov.br/en/web/dou/-/portaria-n-2.963-de-3-de-fevereiro-de-2020-241337726">Portaria 2.963/2020</a> do Ministério da Economia.</p>
 		
 		<a href="img/TabelaIRRF.png" target="_blank"><img src="img/TabelaPSS.png" class="centerImg"></a>
         

diff --git a/js/calc1122.js b/js/calc1122.js
@@ -138,18 +138,20 @@ function calcPSS(periodo, base, teto) {
 	} else {		
 		if (base <= 1045.00) { //salario minimo
             valor = 0.075 * base;
-        } else if (base <= 2000) {
+        } else if (base <= 2089.60) {
             valor = base * 0.09 - 15.68;
-        } else if (base <= 3000) {
-            valor = base * 0.12 - 75.68;
+        } else if (base <= 3134.40) {
+            valor = base * 0.12 - 78.36;
         } else if (base <= teto) { 
-            valor = base * 0.14 - 135.68;
-        } else if (base <= 10000) { 
-            valor = base * 0.145 - 166.18;
-        } else if (base <= 39000) { 
-            valor = base * 0.165 - 366.18;
-        } else { //teto PSS
-            valor = base * 0.22 - 2511.18;
+            valor = base * 0.14 - 141.05;
+        } else if (base <= 10448.00) { 
+            valor = base * 0.145 - 171.56;
+        } else if (base <= 20896.20) { 
+            valor = base * 0.165 - 380.52;
+        } else if (base <= 40474.20) { 
+            valor = base * 0.19 - 902.92;
+        } else {
+            valor = base * 0.22 - 2117.14;
         } 
 	}
 	return Math.floor(valor * 100) / 100;
